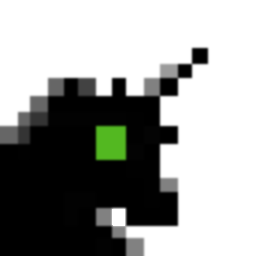
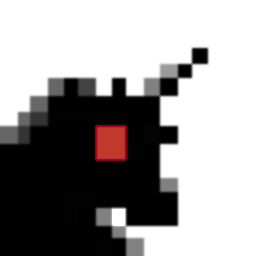
progress with flatstrap

Changed region(s): [[0.3438, 0.4688, 0.5, 0.6562]]

diff --git a/src/hosts/market/static/css/flatstrap.less b/src/hosts/market/static/css/flatstrap.less
@@ -1,3 +1,5 @@
+@import "/src/hosts/market/static/css/colors.less";
+
 //
 // Variables
 // --------------------------------------------------
@@ -32,13 +34,13 @@
 
 // Scaffolding
 // -------------------------
-@bodyBackground:        #ecf0f1;
-@textColor:             @grayDark;
+@bodyBackground:        @clouds;
+@textColor:             @asphalt;
 
 
 // Links
 // -------------------------
-@linkColor:             #08c;
+@linkColor:             @amethyst;
 @linkColorHover:        darken(@linkColor, 15%);
 
 
@@ -47,15 +49,17 @@
 @sansFontFamily:        "Helvetica Neue", Helvetica, Arial, sans-serif;
 @serifFontFamily:       Georgia, "Times New Roman", Times, serif;
 @monoFontFamily:        Monaco, Menlo, Consolas, "Courier New", monospace;
+@latoFontFamily:        'Lato', @serifFontFamily;
+@robotoFontFamily:      'Roboto', @serifFontFamily;
 
-@baseFontSize:          14px;
-@baseFontFamily:        @sansFontFamily;
-@baseLineHeight:        20px;
-@altFontFamily:         @serifFontFamily;
+@baseFontSize:          18px;
+@baseFontFamily:        @robotoFontFamily;
+@baseLineHeight:        24px;
+@altFontFamily:         @latoFontFamily;
 
 @headingsFontFamily:    inherit; // empty to use BS default, @baseFontFamily
 @headingsFontWeight:    bold;    // instead of browser default, bold
-@headingsColor:         inherit; // empty to use BS default, @textColor
+@headingsColor:         @pomegranate; // empty to use BS default, @textColor
 
 
 // Component sizing

diff --git a/src/hosts/market/static/css/views/home/index.less b/src/hosts/market/static/css/views/home/index.less
@@ -1,0 +1,49 @@
+@import "/src/hosts/market/static/css/colors.less";
+
+::selection {
+    background: @pomegranate;
+    color: @clouds;
+    text-shadow: 0 1px rgb(0, 0, 0, .2);
+}
+
+.row-heading {
+    margin-bottom: 20px;
+}
+
+.row-heading .icon {
+    background: url('/img/icon-256.png?v=1') no-repeat;
+    height: 256px;
+    max-width: 256px;
+    text-indent: -9999em;
+    border-bottom: 10px solid;
+}
+
+.title {
+    text-align: center;
+    max-width: 600px;
+}
+
+.title-part {
+    display: inline-block;
+    vertical-align: top;
+}
+
+.title-heading {
+    line-height: 128px;
+    font-size: 128px;
+}
+
+.title-caption {
+
+}
+
+.container-promo {
+}
+
+.container-promo .video-wrapper {
+}
+
+.container-promo .video {
+    border: 10px solid @pomegranate;
+    background-color: @alizarin;
+}

diff --git a/src/frontend/css/youtube.less b/src/frontend/css/youtube.less
@@ -1,4 +1,4 @@
-.video-container {
+.video {
     position: relative;
     padding-bottom: 56.25%;
     padding-top: 30px;
@@ -6,7 +6,7 @@
     overflow: hidden;
 }
 
-.video-container > iframe {
+.video > iframe {
     position: absolute;
     top: 0;
     left: 0;

diff --git a/src/hosts/market/static/css/colors.less b/src/hosts/market/static/css/colors.less
@@ -1,0 +1,9 @@
+/* Flat UI Colors http://flatuicolors.com */
+
+@clouds: #ecf0f1;
+@asphalt: #34495e;
+
+@alizarin: #e74c3c;
+@pomegranate: #c0392b;
+
+@amethyst: #9b59b6;
